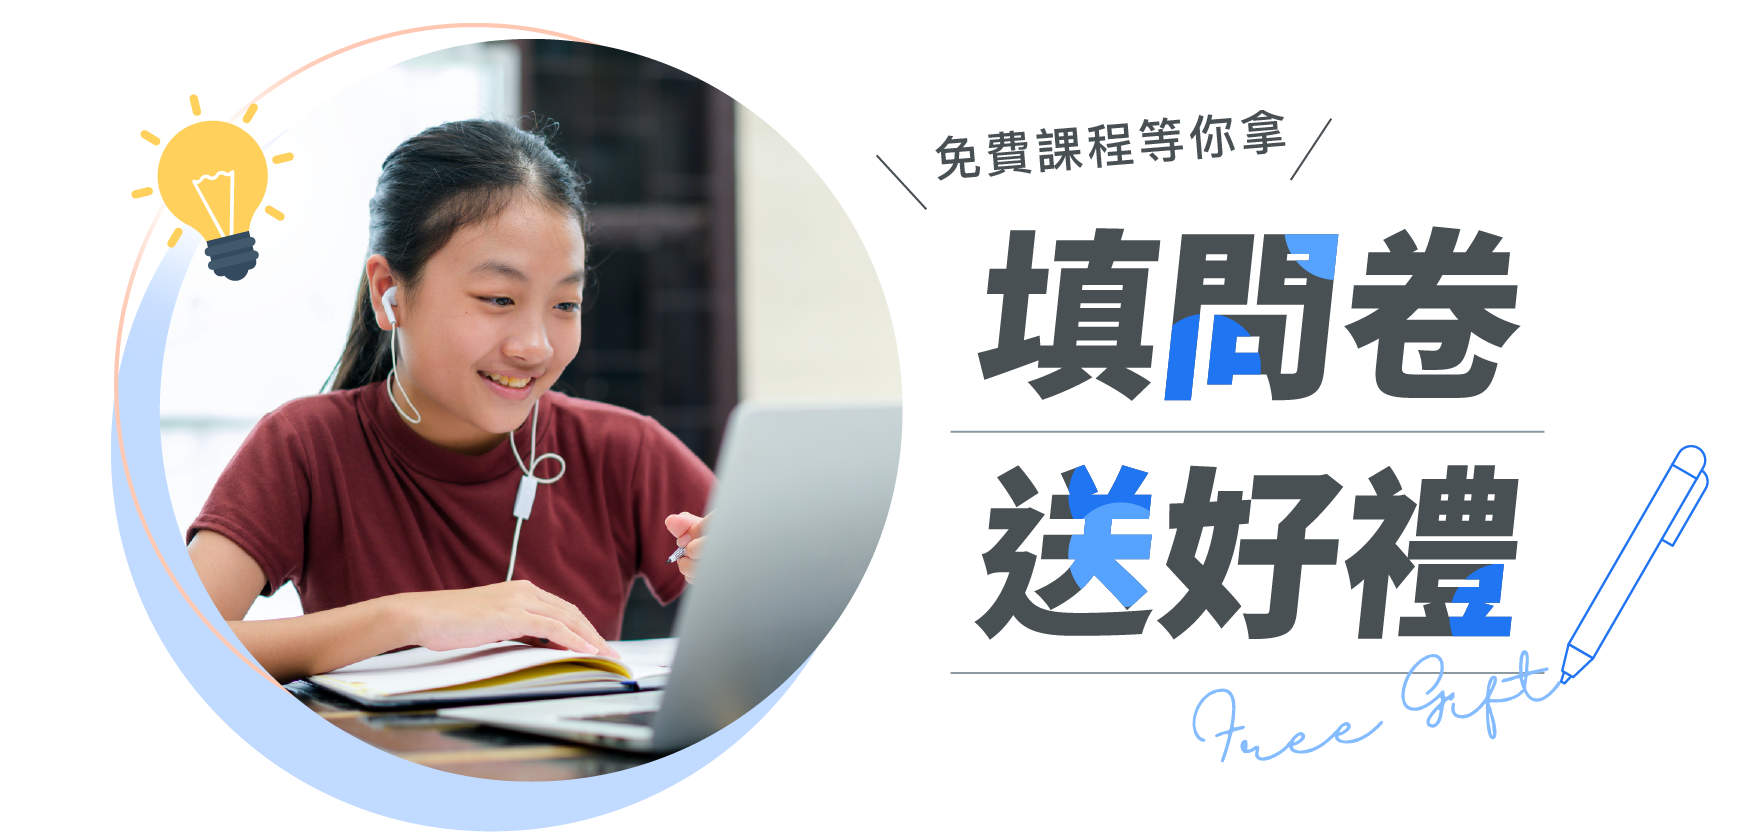
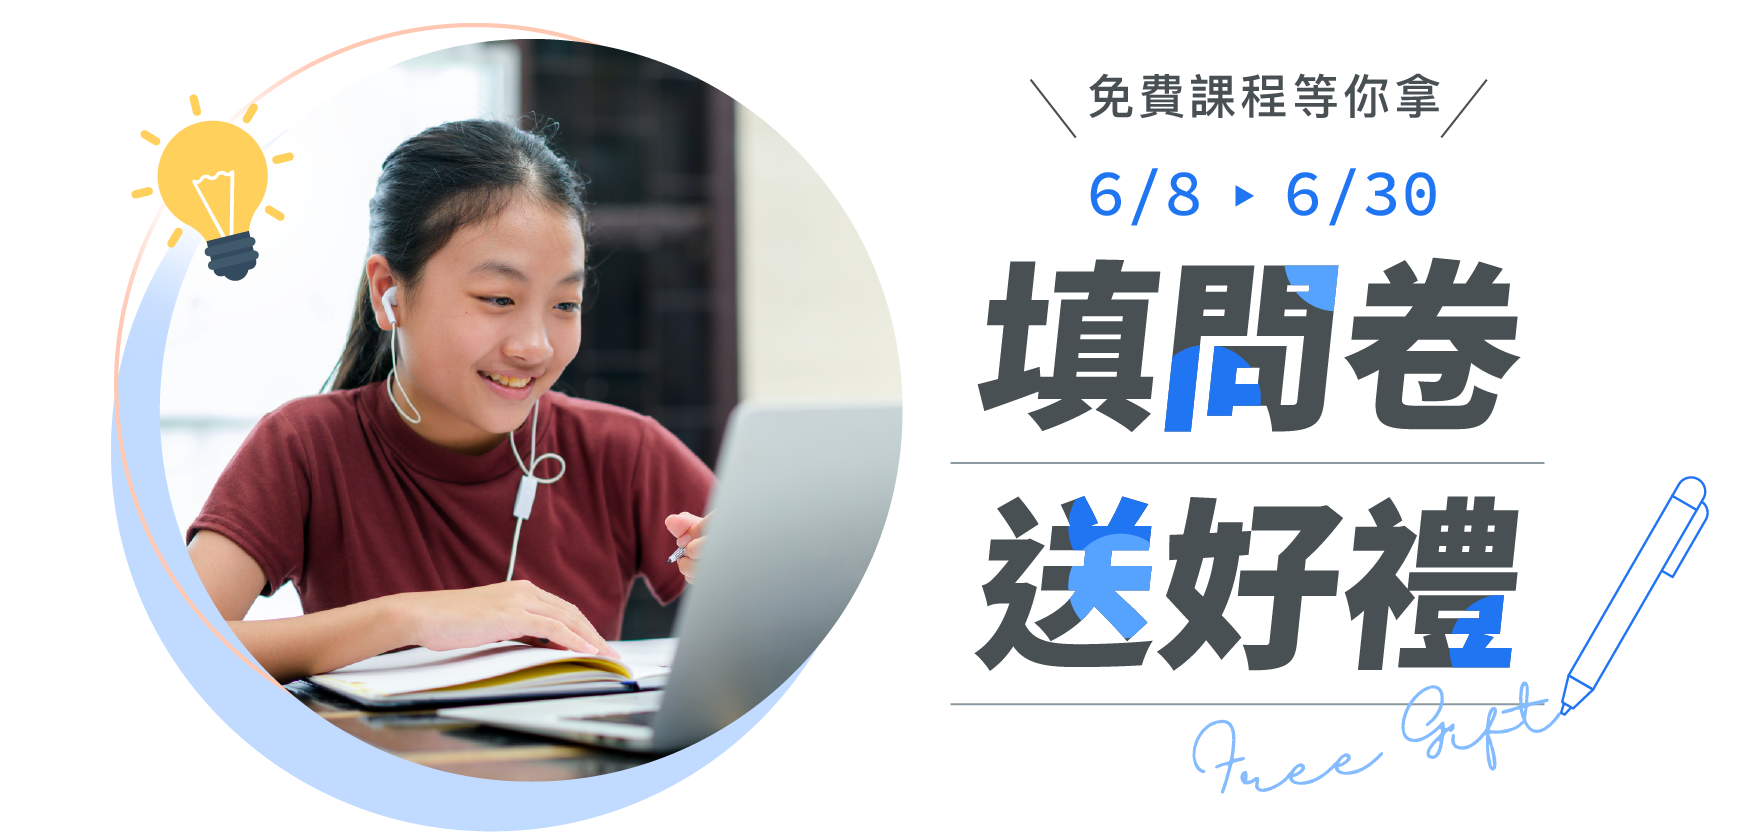
首頁圖片加上日期

Changed region(s): [[0.5246, 0.0935, 0.9874, 0.9664]]

diff --git a/css/style.css b/css/style.css
@@ -109,7 +109,7 @@ input[type=button]:hover {
     flex-direction: column;
     justify-items: center;
     align-items: center;
-    padding: 40px 0px;
+    padding: 60px 0px;
     position: relative;
 }
 
